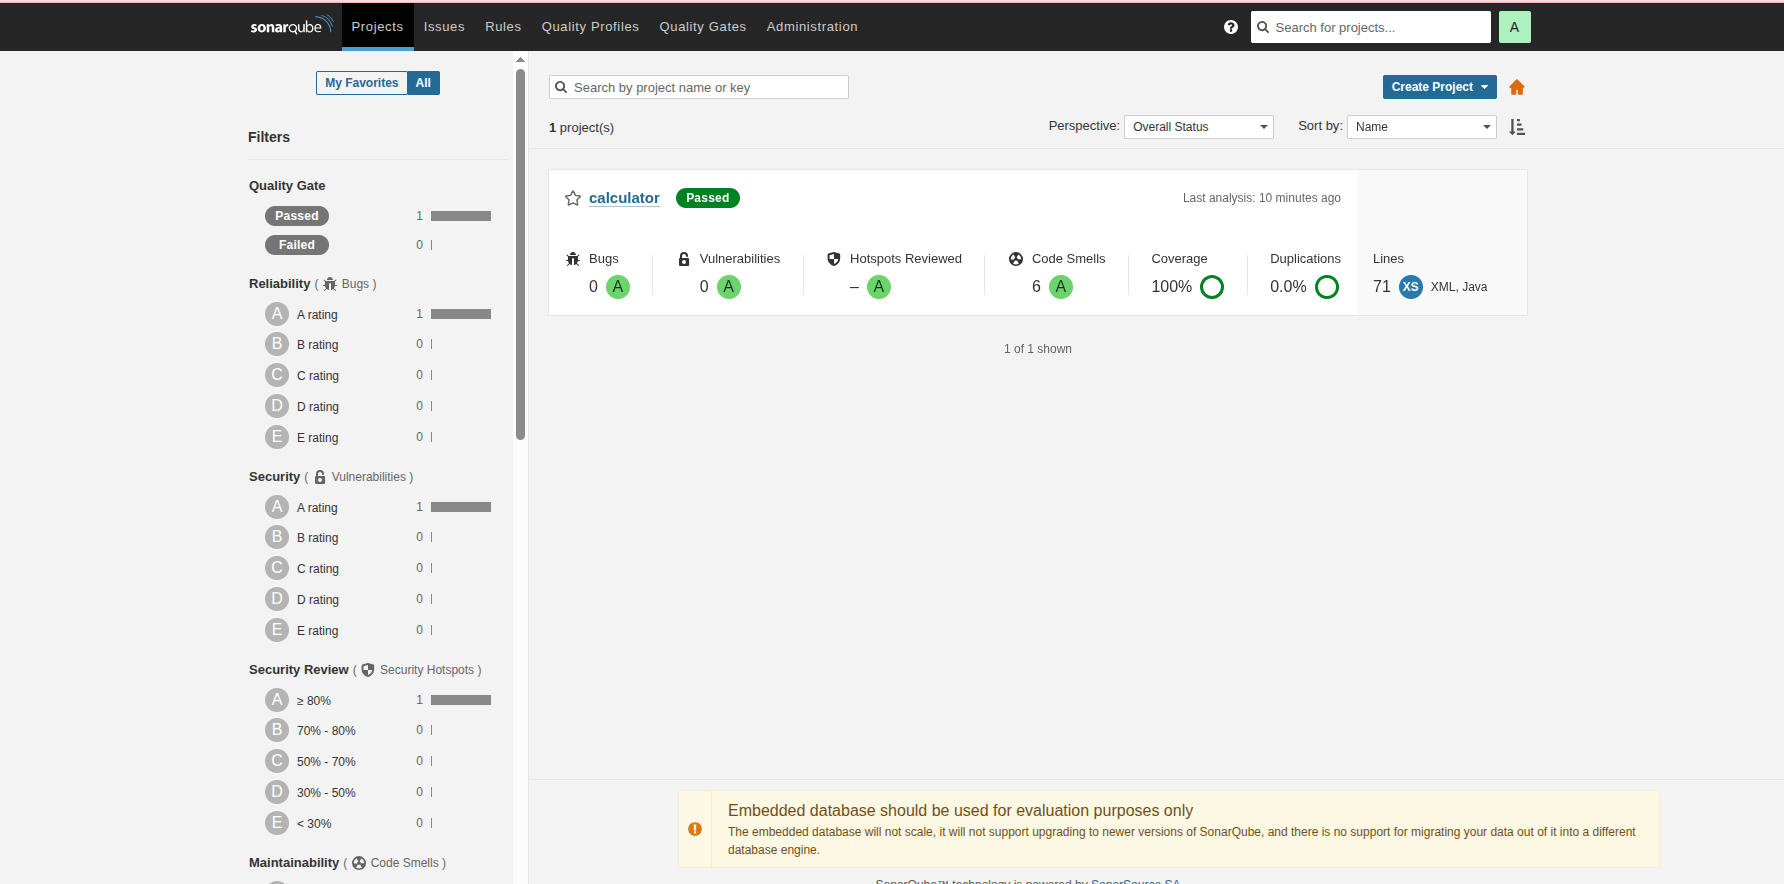
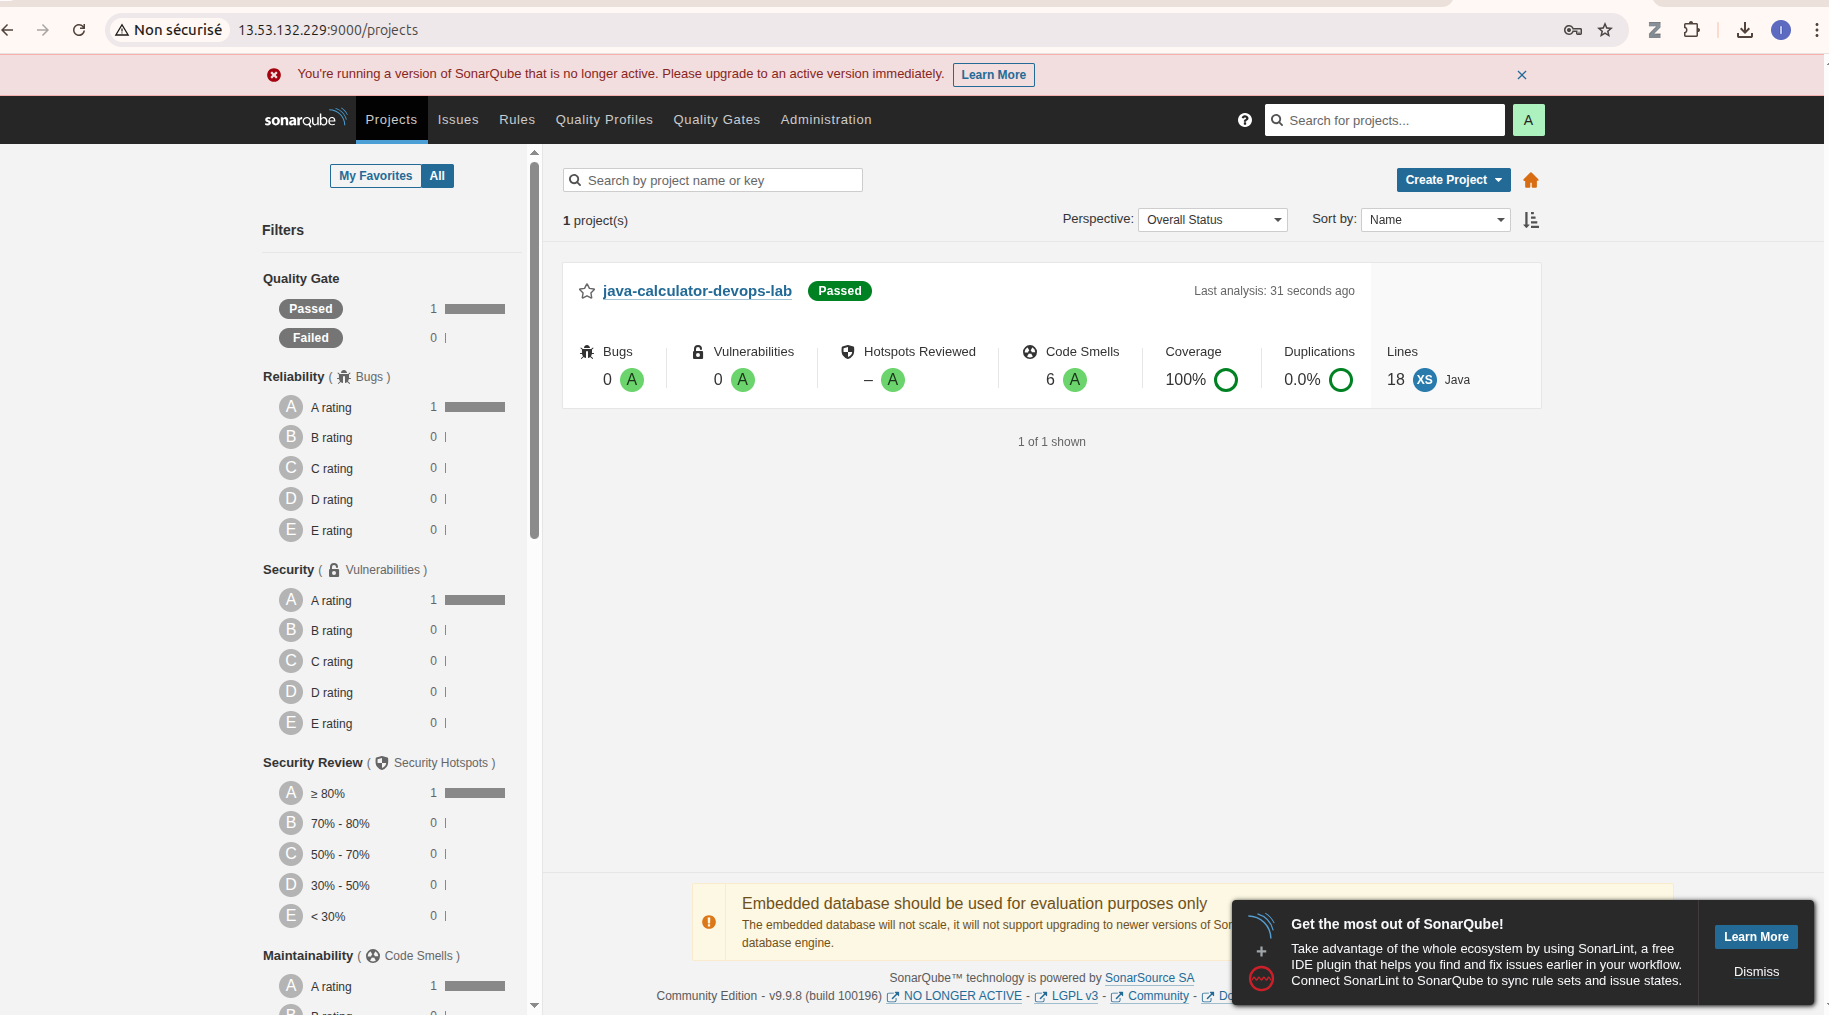
Mise a jour des photos : ajout de photos avec url visible

diff --git a/setup.md b/setup.md
@@ -49,7 +49,7 @@ sudo usermod -aG docker $USER
 # /!\ Déconnectez-vous et reconnectez-vous ici pour appliquer les droits
 
 # Lancement de SonarQube
-docker run -d --name sonarqube -p 9000:9000 sonarqube:lts-community
+sudo docker run -d --name sonarqube -p 9000:9000 sonarqube:lts-community
 ```
 
 ### 5. Exécution et Analyse du Projet
